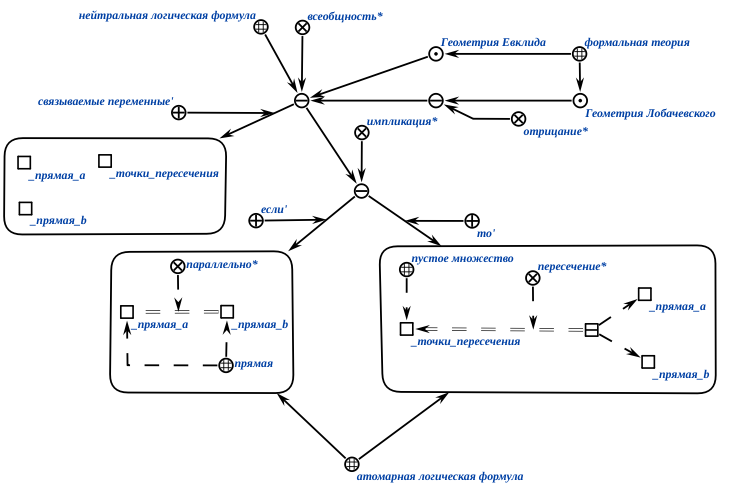
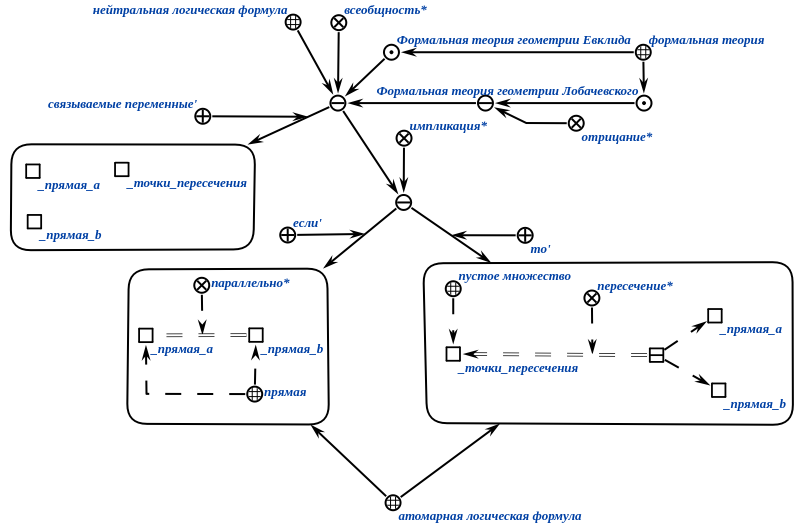
add logical_formula_and_uniqueness example

Changed region(s): [[0.0, 0.0, 0.9973, 1.0], [0.7791, 0.6429, 0.8415, 0.7041]]

diff --git a/Contents/part_kb/sd_logical_formulas.tex b/Contents/part_kb/sd_logical_formulas.tex
@@ -436,12 +436,17 @@
 \scnsubset{логическая формула}
 \scnsubset{единственное существование}
 \scnexplanation{Каждый элемент множества \textbf{\textit{логическая формула и единственность}} представляет собой \textit{логическую формулу} (\textit{атомарную} или \textit{неатомарную}), для которой дополнительно уточняется, что при ее интерпретации на некоторой предметной области существует только один набор значений переменных, входящих в эту формулу (или ее \textit{подформулы*}), при котором указанная логическая формула истинна в рамках \textit{формальной теории}, в которую входит данная \textit{предметная область}.}
+\scnrelfrom{описание примера}{
+\scnfilescg{figures/sd_logical_formulas/unique_existance.png}}
+\scnaddlevel{1}
+\scnnote{Данная формула показывает, что в рамках формальной теории геометрии Евклида существует только один прямоугольный треугольник с некоторым периметром, являющийся равнобедренным.}
+
+\scniselement{sc.g-текст}
+\scnaddlevel{-1}
 
 \scnheader{связываемые переменные\scnrolesign}
 \scniselement{ролевое отношение}
 \scndefinition{\textbf{\textit{связываемые переменные\scnrolesign}} -- это \textit{ролевое отношение}, которое связывает связку конкретного \textit{квантора} с множеством переменных, которые связаны этим квантором.}
-%\scnrelfrom{описание примера}{
-%\scnfilescg{figures/sd_logical_formulas/bindVariables.png}}
 
 \scnheader{открытая логическая формула}
 \scndefinition{\textbf{\textit{открытая логическая формула}} -- это \textit{логическая формула}, в рамках которой (и всех ее \textit{подформул*}) существует хотя бы одна переменная, не связанная никаким \textit{квантором}.}
